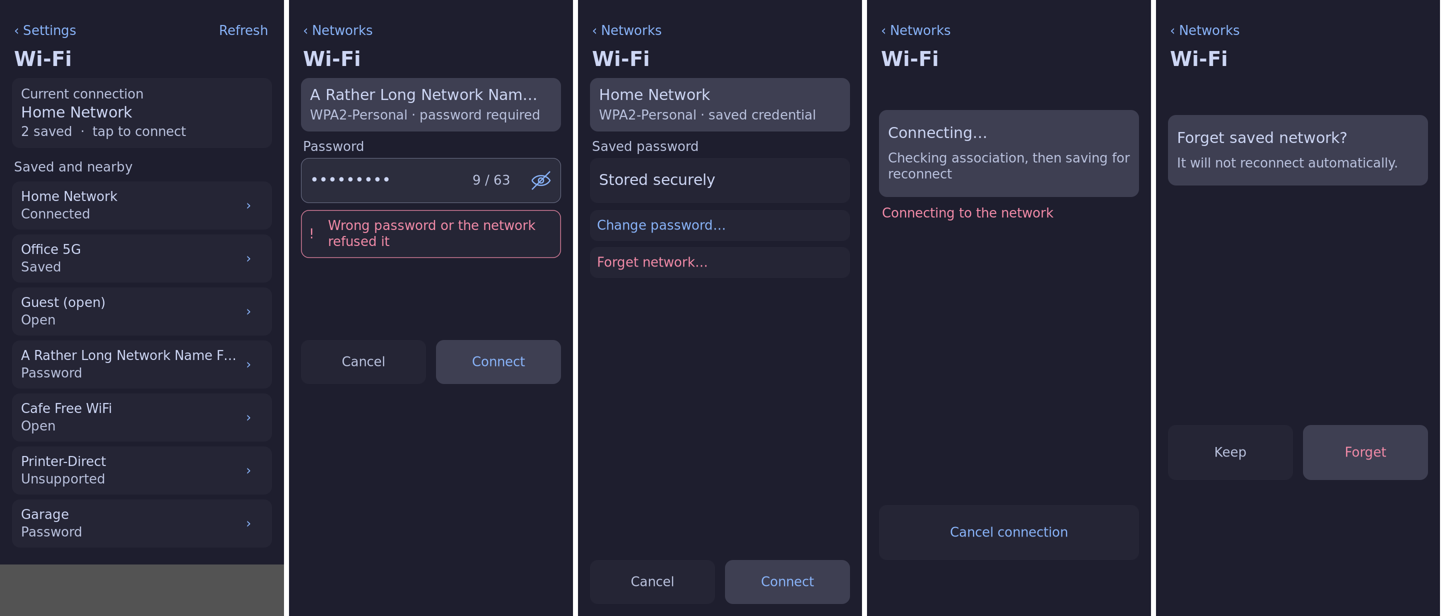
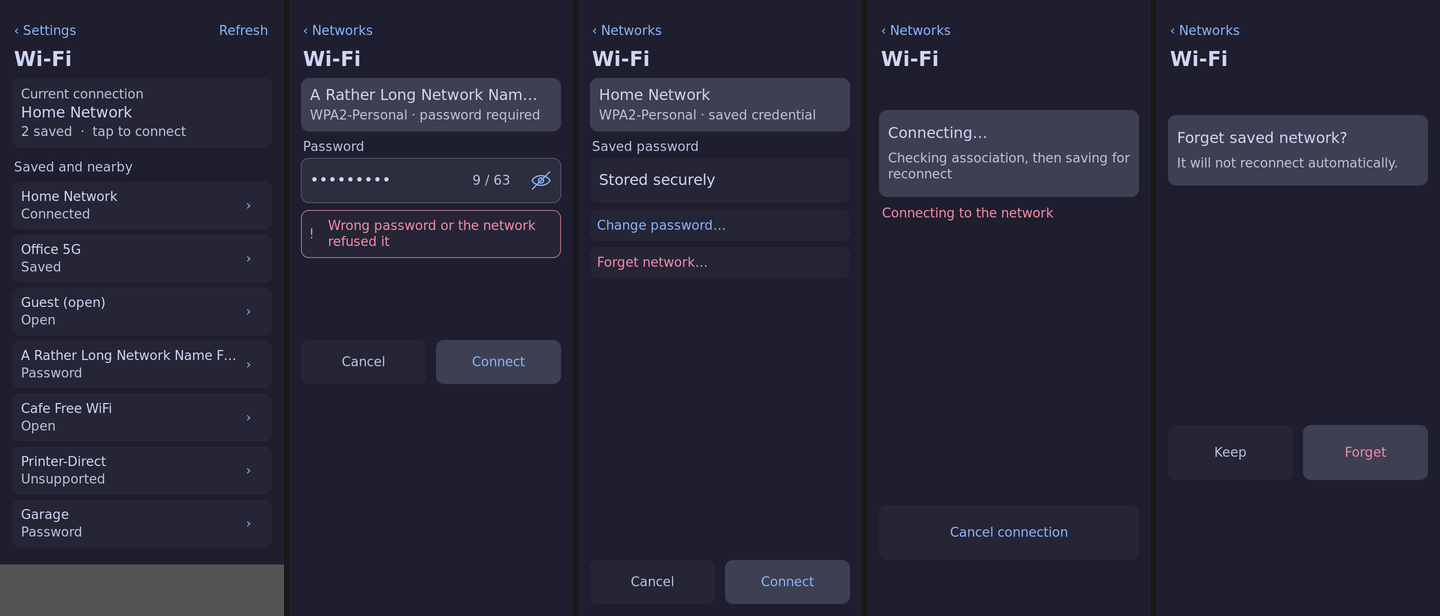
Rest of the shell text: board captures at 100% and 200%
Native grim captures of Home, a folder, Help, Wi-Fi (network name
redacted), the theme chooser, the Overview, a banner, Settings Volume
and the expanded HUD at both steps; host sheets regenerated for the
chooser and Wi-Fi fixes. Tasks 2.2 and 3.1 done; 3.2 (operator on
glass) stays open.

diff --git a/docs/blob-inventory.md b/docs/blob-inventory.md
@@ -2061,16 +2061,18 @@ DATA 6e222d41121d2e15b3e0a882577b0254fde1067a2716aa50fdb044673eaf893a docs/evide
 DATA e7d43131d2a871cf09143d8e3b5f304338fc22c66522d8f01e3c753340b1090e docs/evidence/rest-of-text/host-banner-568x1232.png
 DATA ca4afb3558abc30f43505beae2499dbc7410712f9cbb33abdb76731b942a1cd6 docs/evidence/rest-of-text/host-help-steps.png
 DATA e0bf987dd554a51d571177549278875a59a03f7da38cdf863690d69f124ca427 docs/evidence/rest-of-text/host-help-wide.png
-DATA f485463e5cddad72e96e4da6ed9ec324fdfe9e5a121dbab138db9dda3ae77dc4 docs/evidence/rest-of-text/host-themes-steps-568x1232.png
-DATA 356bd1051e47d4d8c3c766deadd32b1f9bc566bb55fc8e77274098d88d061d17 docs/evidence/rest-of-text/host-themes-1232x568.png
+DATA 40af3196323e16637a133d30834077dc82233204c4d55d17edac781342786b07 docs/evidence/rest-of-text/host-themes-steps-568x1232.png
+DATA 536e64bc9f493912259970e5a137678db4da9c78505137dd8f136d71c02ea21e docs/evidence/rest-of-text/host-themes-1232x568.png
 DATA 7ed97151eb5301a3c567ce5e62f2e32fad72ee8e7296afb1db073b1fd08061b8 docs/evidence/rest-of-text/host-menu-splash-568x1232.png
 DATA b537a8fb335420c5812d18d81b0ea6c9ee3880390a81b4db884594de703476d7 docs/evidence/rest-of-text/host-menu-splash-1232x568.png
-DATA 7533a7fc5e336eaa337f4943939f199a1da62b6fb3f774b44b2445ff4bcd9130 docs/evidence/rest-of-text/host-themes-1920x1080.png
+DATA 64c0fc8b9758247af7bdf85f2457d88ac1a695bae7fd387eb42a3dc6d543c3da docs/evidence/rest-of-text/host-themes-1920x1080.png
 DATA 84944d451c4c5266e381fbac4b859350e3c50e7b36d9f583f3b2de2ea22c5dea docs/evidence/rest-of-text/host-home-widgets-steps.png
-DATA 358c0360d0755c724e7b8ea13cfbcd5ff9b357ea568f2d408ce9ab40e6a19c0c docs/evidence/rest-of-text/host-wifi-200-568x1232.png
-DATA cb857af450c15fd308bad5d86ef53d3613567cdaed92be693785a423deb9ec81 docs/evidence/rest-of-text/host-wifi-200-1232x568.png
-DATA 98a7b9e654f59fb3559dc9b7a3d08ae0f0868f88f370395428b6c6d991482b5d docs/evidence/rest-of-text/host-wifi-100-568x1232.png
-DATA f570d9f0ef0e038151fbf0d92fd9e9ff26bbce00178beec62fa4d2431c81891e docs/evidence/rest-of-text/host-wifi-100-1232x568.png
+DATA 9a6dbcaf060694446bf9c1aacc827cf46e47c118f638cf8a0462a91ccdab845a docs/evidence/rest-of-text/host-wifi-200-568x1232.png
+DATA de6d2d21d69ae2665761c63868da86a650829570fc4c84d77b4ae88f9e6e2de7 docs/evidence/rest-of-text/host-wifi-200-1232x568.png
+DATA 81ff11de0912324f6ac0f0a6de8605474c80b9c331be793a442c5fbed05c702b docs/evidence/rest-of-text/host-wifi-100-568x1232.png
+DATA 1416ea0b21de344e7d619a22ffb3a88636fe5aa51be06c10be1558a6f540e5a1 docs/evidence/rest-of-text/host-wifi-100-1232x568.png
+DATA 9a9b114124f744820f581a8eb43f8ff6f9db4aec88de5205269f60d8a99390e7 docs/evidence/rest-of-text/board-panel-100.png
+DATA b5415580d0ea62acb239e220ebd320fab3b35145a245e79da39e433632fa46fd docs/evidence/rest-of-text/board-panel-200.png
 ```
 
 `group:` rows stand for a directory whose members are enumerated by
@@ -3589,13 +3591,15 @@ Command and limits: `docs/evidence/battery-details-widget/host/README.md`.
[22 lines of base64/hex data omitted]

diff --git a/docs/evidence/rest-of-text/README.md b/docs/evidence/rest-of-text/README.md
@@ -41,8 +41,8 @@ Evidence class: host renders unless a section says otherwise.
   menu with three rows, then the "That window has closed" recovery splash,
   each at 100% and 200%, half size (`<step>-menu-*`, `<step>-splash-*`).
 
-Limits: no board captures yet (task 3.1). The volume HUD's expanded rows
-are covered by unit tests only; they need streams playing on the board.
+Limits: host renders do not decode theme thumbnails or play audio; the
+board captures below cover those.
 
 ## Board (2026-10-19 UTC)
 
@@ -56,3 +56,35 @@ wallpaper, 100%, reached with `tools/board-pointer.py` swipes.
   Weather card's location, high/low and forecast in the Caption role. The
   e11757ee fix exists because the a23e199a closure showed "12…" for
   "12am" in this card.
+- `board-panel-100.png`, `board-panel-200.png`: native `grim` captures on
+  DSI-1 at 100% and 200%, half size, two per row. Left to right, top to
+  bottom: Home (page 1), an open folder, Help, Wi-Fi, the theme chooser,
+  the card Overview, a notification banner over Home, Settings scrolled to
+  the Volume card, and the expanded volume HUD over Settings with one
+  stream and the output row (task 3.1; the Overview completes task 2.2).
+  The step was changed in Settings → Vision with injected taps.
+  - Closures: Help, Wi-Fi, the chooser, the Overview and the banner are
+    from e6cfec6a (`/nix/store/3cvpcan6n8s12gqxc5wlzli4dpv9lkks-nixos-system-…`).
+    Home, the folder, the Settings Volume card and the HUD are from
+    2a7a86ba (`/nix/store/3yskrvsm9kb7zajhix80bk5z4ma95nj3-nixos-system-…`),
+    which changes only the HUD's stream initial.
+  - Sources and redactions: the folder ("Games": 2048, Fifteen, SameGame,
+    NetHack) was added to the saved Home layout for the capture and the
+    layout was restored afterwards. The stream is `aplay` writing silence
+    as the shell user. The network name is covered by a grey box in both
+    Wi-Fi tiles. The banner comes from `k230-notifications emit` run as
+    root, an untrusted source, so it shows the generic "New notification"
+    text by design.
+  - Defects these captures found, each fixed before the final set:
+    - the chooser hint and "Backgrounds · crop" ended in "…" at 200%;
+    - the 200% chooser cards shrank to slivers;
+    - Wi-Fi's "Saved and nearby" was shortened;
+    - a downward drag from the top of Settings or Help was taken as a close drag;
+    - the Overview card covered its footer at 200%;
+    - the HUD's "…" mark overlapped the stream icon;
+    - the Settings Volume label overlapped "40%";
+    - the HUD stream initial turned into "…" at 200%.
+  - Limits:
+    - At 200%, Home and folder labels keep their 100% size where the cell leaves no room, as designed. "SameGame" is shortened, which the requirement allows.
+    - HUD rows do not grow with the step beyond their 64 px row.
+    - The chooser's page scroll at 200% was exercised on the board with a drag, but the final sheet shows the top of the page only.

diff --git a/openspec/changes/the-rest-of-the-shell-text-takes-the-type-roles/tasks.md b/openspec/changes/the-rest-of-the-shell-text-takes-the-type-roles/tasks.md
@@ -31,7 +31,7 @@
   its summary Body; its height comes from those roles and the step (98 px
   at 100%, inside the 256 px banner bound at 200%). Renders:
   `docs/evidence/rest-of-text/host-banner-*.png`. All test targets pass.
-- [ ] 2.2 The Wi-Fi pages, the Help page, the theme grid and the recovery
+- [x] 2.2 The Wi-Fi pages, the Help page, the theme grid and the recovery
   menu on the roles; also the recovery splash and the card Overview's
   title and footer (added 2026-10-19). Host class.
   Progress 2026-10-19 (host): Help is laid out by `help::layout` from the
@@ -73,12 +73,25 @@
   (`CARD_TYPE_*` in `nix/card-shell/render.h`), each in a box one role
   line tall after the theme size and step. The C card shell has no host
   renderer here; its proof is the board build and a board capture.
+  Done 2026-10-19 (board): the Overview at 100% and 200% in
+  `docs/evidence/rest-of-text/board-panel-{100,200}.png`. Its title and
+  footer bands now grow to one role line (`prepare_impl` in
+  `nix/card-shell/adapter.c`) after the first 200% capture showed the
+  card covering the footer.
 
 ## 3. Board
 
-- [ ] 3.1 Native `grim` captures of Home, a folder, the volume HUD with
+- [x] 3.1 Native `grim` captures of Home, a folder, the volume HUD with
   audio streams, a notification banner, Wi-Fi and Help at 100% and 200% on the landscape panel. Board
   class.
+  Done 2026-10-19 (board, `grim` on DSI-1):
+  `docs/evidence/rest-of-text/board-panel-{100,200}.png`, also showing the
+  theme chooser, the Overview and the Settings Volume card. The final
+  tiles come from the e6cfec6a and 2a7a86ba closures; the README names
+  each store path, the temporary folder, the silent stream and the
+  redacted network name. Board review found eight defects (README), each
+  fixed before the final set. Limit: one stream was
+  playing, not several.
 - [ ] 3.2 The operator's look on glass. Board class; stays open until the
   operator has looked.
   Progress 2026-10-19: the operator looked at Home (both pages: the Video

diff --git a/openspec/changes/the-rest-of-the-shell-text-takes-the-type-roles/design.md b/openspec/changes/the-rest-of-the-shell-text-takes-the-type-roles/design.md
@@ -29,9 +29,23 @@ shell text rather than ellipsize it.
 - **Theme chooser.** The portrait carousels take the height the role text
   leaves. Every output shows the omarchy-style carousels; the wide card
   grid is removed (operator decision 2026-10-19), and on a monitor the
-  carousels grow, each centred card up to 70% of its half.
+  carousels grow, each centred card up to 70% of its half. The hint and
+  the backgrounds heading wrap rather than end in "…". Cards keep a
+  minimum height (200 px wide, 300 and 160 px portrait); when the text
+  at a large step leaves less, the page scrolls with a vertical drag
+  instead of shrinking the cards. A feedback line is drawn only where it
+  fits whole.
+- **Volume HUD.** Row names follow the Caption role. The "…" expand mark
+  is three fixed dots, and a stream's fallback initial is sized to its
+  icon circle: both are marks, not text, so they do not grow with the
+  step into the rows.
 - **Card Overview.** The C card shell mirrors the roles as `CARD_TYPE_*` in
-  `render.h` and sizes each label box from the theme's font scale.
+  `render.h` and sizes each label box from the theme's font scale. The
+  title and footer bands grow to one role line, so the card no longer
+  covers the footer at 200%.
+- **Close drags.** Settings and Help close with an upward drag from their
+  top zone. A downward drag that starts there is left to the page, so a
+  scroll that starts near the top at a large step still scrolls.
 
 ## Risks
 
